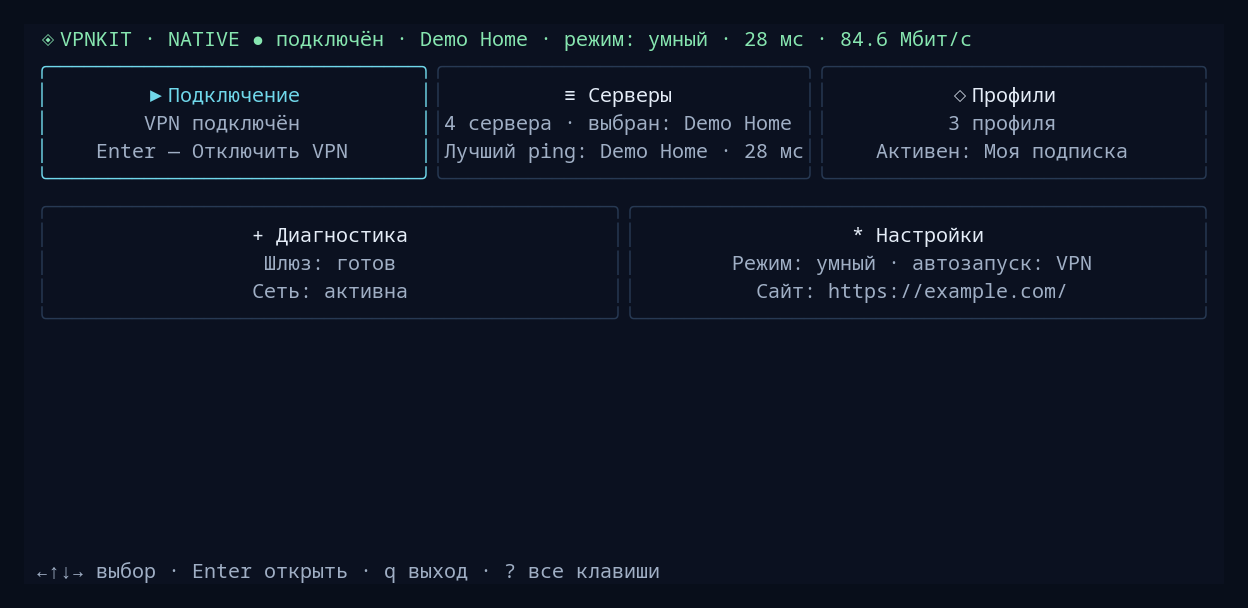
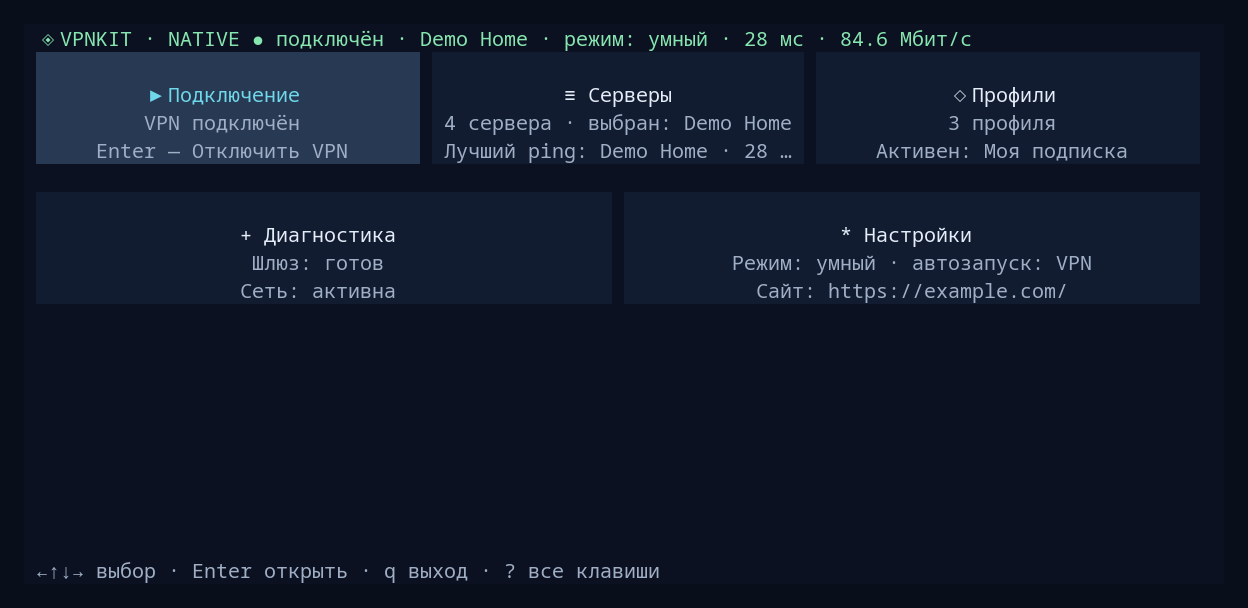
feat(tui): letterless rows, solid home tiles, quieter status line

diff --git a/scripts/vpnkit/tui/shell-presentation.test.ts b/scripts/vpnkit/tui/shell-presentation.test.ts
@@ -66,7 +66,7 @@ test("shell: a narrow tall terminal stacks home tiles in one column", async () =
     app.open("home", false); app.homeIndex = 0; app.notice = ""; app.paint(); await t.renderOnce();
     const lines = t.captureCharFrame().split("\n");
     for (const title of ["Подключение", "Серверы", "Профили", "Диагностика", "Настройки"])
-      expect(lines.filter(line => line.includes(title) && line.includes("│"))).toHaveLength(1);
+      expect(lines.filter(line => line.includes(title))).toHaveLength(1);
     expect(lines.findIndex(line => line.includes("Серверы"))).toBeGreaterThan(lines.findIndex(line => line.includes("Подключение")));
     app.onKey({ name: "down", preventDefault() {} }); expect(app.homeIndex).toBe(1);
     app.onKey({ name: "right", preventDefault() {} }); expect(app.homeIndex).toBe(1);
@@ -229,7 +229,7 @@ test("shell: dialogs keep the workspace, capture shortcuts and stack help", asyn
     let frame = t.captureCharFrame();
     expect(frame).toContain("Node 00");
     expect(frame).toContain("остановить Docker и отключить VPN?");
-    expect(frame).toMatch(/› Нет +n│/); expect(frame).toMatch(/ Да +y│/);
+    expect(frame).toMatch(/› Нет +│/); expect(frame).toMatch(/ Да +│/);
     const before = backend.calls.length;
     app.onKey({ name: "d", preventDefault() {} });
     expect(app.screen).toBe("confirm"); expect(backend.calls.length).toBe(before);
@@ -238,7 +238,7 @@ test("shell: dialogs keep the workspace, capture shortcuts and stack help", asyn
     expect(t.captureCharFrame()).not.toContain("confirm");
     app.onKey({ name: "escape", preventDefault() {} }); await t.renderOnce();
     expect(app.helpOpen).toBe(false); expect(app.screen).toBe("confirm");
-    frame = t.captureCharFrame(); expect(frame).toMatch(/› Нет +n│/);
+    frame = t.captureCharFrame(); expect(frame).toMatch(/› Нет +│/);
     app.onKey({ name: "escape", preventDefault() {} });
     expect(app.screen).toBe("servers"); expect(backend.calls.length).toBe(before);
   } finally { await app.close(); }
@@ -256,7 +256,7 @@ test("shell: editor and native confirmation fit the minimum terminal", async () 
     app.confirmation = "subscription"; app.open("confirm"); await t.renderOnce();
     frame = t.captureCharFrame();
     expect(frame).toContain("Polkit"); expect(frame).toContain("автозапуск не изменяется");
-    expect(frame).toMatch(/› Нет +n│/); expect(frame).toMatch(/ Да +y│/);
+    expect(frame).toMatch(/› Нет +│/); expect(frame).toMatch(/ Да +│/);
   } finally { await app.close(); }
 });
 
@@ -316,7 +316,7 @@ test("shell: settings show stored and actual state and profiles use available ro
     expect(frame).not.toContain("[a] Автозапуск");
     t.resize(60, 16); app.open("autostart"); await t.renderOnce();
     frame = t.captureCharFrame();
-    expect(frame).toContain("Автозапуск"); expect(frame).toMatch(/Запускать шлюз .* g│/); expect(frame).toMatch(/Подключать VPN .* a│/);
+    expect(frame).toContain("Автозапуск"); expect(frame).toMatch(/Запускать шлюз .*‹ да ›/); expect(frame).toMatch(/Подключать VPN .*‹ нет ›/);
     app.onKey({ name: "escape", preventDefault() {} }); expect(app.screen).toBe("settings");
     t.resize(80, 24);
     app.profiles = { active: "p0", items: Array.from({ length: 9 }, (_, i) => ({ id: `p${i}`, name: `Profile ${i}`, kind: "server" as const, count: i, stale: i === 2 })) };
@@ -337,14 +337,14 @@ test("shell: long task overlays scroll and outside clicks cannot activate worksp
     expect(app.screen).toBe("tasks"); expect(app.serverID).toBe(before);
     for (let i = 0; i < 11; i++) app.onKey({ name: "down", preventDefault() {} });
     await t.renderOnce();
-    expect(t.captureCharFrame()).toMatch(/› Выполняется .* 12│/);
+    expect(t.captureCharFrame()).toMatch(/› Выполняется /);
     app.tasks.clear(); app.open("profiles"); app.open("profile-remove");
     expect(app.items()[app.selected]?.key).toBe("n");
     await t.renderOnce(); expect(t.captureCharFrame()).toContain("Удалить активный профиль?");
   } finally { app.tasks.clear(); await app.close(); }
 });
 
-for (const width of [80, MIN_COLS]) test(`menu rows keep value, arrow and shortcut on one line at ${width} columns`, async () => {
+for (const width of [80, MIN_COLS]) test(`menu rows keep value and arrow on one line without letters at ${width} columns`, async () => {
   const { terminal, app } = await fixture(width, 24);
   try {
     app.status = { ...app.status!, runtime: "native", installed: true };
@@ -354,9 +354,9 @@ for (const width of [80, MIN_COLS]) test(`menu rows keep value, arrow and shortc
     const lines = terminal.captureCharFrame().split("\n");
     const first = lines.findIndex(line => line.includes("› Автостарт после сна"));
     expect(first).toBeGreaterThan(0);
-    expect(lines[first]).toMatch(/‹ нет › +w *$/);
-    expect(lines[first + 1]).toMatch(/Автозапуск .*→ +a *$/);
-    expect(lines[first + 2]).toMatch(/Режим .*‹ строгий › +m *$/);
+    expect(lines[first]).toMatch(/‹ нет › *$/);
+    expect(lines[first + 1]).toMatch(/Автозапуск .*→ *$/);
+    expect(lines[first + 2]).toMatch(/Режим .*‹ строгий › *$/);
     for (const line of lines.slice(first, first + 3)) expect(Bun.stringWidth(line.trimEnd())).toBeLessThanOrEqual(78);
     for (const line of lines.slice(first, first + 3)) expect(Bun.stringWidth(line)).toBe(width);
     expect(lines.at(-2)?.trimEnd()).toEndWith("? все клавиши");
@@ -369,8 +369,8 @@ for (const width of [80, MIN_COLS]) test(`menu rows keep value, arrow and shortc
       if (key === "right") terminal.mockInput.pressArrow("right"); else terminal.mockInput.pressEnter();
       expect(app.screen).toBe("autostart"); await terminal.renderOnce();
       const dialog = terminal.captureCharFrame().split("\n");
-      const toggle = dialog.findIndex(line => /› Запускать.*‹ нет › +g│/.test(line));
-      expect(toggle).toBeGreaterThan(0); expect(dialog[toggle + 1]).toMatch(/Подключать VPN.*‹ нет › +a│/);
+      const toggle = dialog.findIndex(line => /› Запускать.*‹ нет › +│/.test(line));
+      expect(toggle).toBeGreaterThan(0); expect(dialog[toggle + 1]).toMatch(/Подключать VPN.*‹ нет › +│/);
     }
   } finally { await app.close(); }
 });

diff --git a/scripts/vpnkit/tui/home-view.ts b/scripts/vpnkit/tui/home-view.ts
@@ -19,7 +19,8 @@ export class HomeView {
     this.more = new TextRenderable(renderer, { content: "", height: 1, flexShrink: 0, fg: p.muted, visible: false });
     this.root.add(this.more);
     for (let i = 0; i < TILES; i++) {
-      const box = new BoxRenderable(renderer, { flexDirection: "column", flexGrow: 1, flexBasis: 0, minWidth: 0, border: true, borderStyle: "rounded", onMouseDown: e => { if (e.button === 0) activate(i); } });
+      // Filled blocks instead of box-drawing borders: terminals with extra line spacing draw `│` as a dashed line.
+      const box = new BoxRenderable(renderer, { flexDirection: "column", justifyContent: "center", flexGrow: 1, flexBasis: 0, minWidth: 0, paddingX: 1, marginRight: 1, backgroundColor: p.panel, onMouseDown: e => { if (e.button === 0) activate(i); } });
       const title = new TextRenderable(renderer, { height: 1, fg: p.text, attributes: TextAttributes.BOLD }); box.add(title);
       const lines = [0, 1, 2, 3].map(() => { const line = new TextRenderable(renderer, { height: 1, fg: p.muted }); box.add(line); return line; });
       this.tiles.push({ box, title, lines });
@@ -62,7 +63,7 @@ export class HomeView {
       ["Настройки", `Режим: ${mode} · автозапуск: ${state.autostart ? (state.autostart.connect ? "VPN" : state.autostart.gateway ? "шлюз" : "нет") : "—"}`, `Сайт: ${state.target ? displayCheckAddress(state.target) : "не задан"}`],
     ];
     // The last row may hold fewer tiles, which then grow wider.
-    const tileWidth = (i: number) => Math.floor((this.renderer.width - 2) / Math.min(cols, TILES - Math.floor(i / cols) * cols)) - 2;
+    const tileWidth = (i: number) => Math.floor((this.renderer.width - 2) / Math.min(cols, TILES - Math.floor(i / cols) * cols)) - 3;
     const width = tileWidth(LAST);
     // Preserve the redacted address and complete status when extra rows are available.
     const wrap = (text: string): string[] => {
@@ -91,7 +92,8 @@ export class HomeView {
       this.tiles.forEach((tile, i) => this.rows[Math.floor(i / cols)]!.add(tile.box));
     }
     this.tiles.forEach((tile, i) => {
-      tile.box.height = compact ? tileHeight : 5 + (Math.floor(i / cols) === Math.floor(LAST / cols) ? extra : 0); tile.box.borderColor = i === state.homeIndex ? p.accent : p.edge;
+      // One blank row under each block separates the rows of the grid.
+      tile.box.height = (compact ? tileHeight : 5 + (Math.floor(i / cols) === Math.floor(LAST / cols) ? extra : 0)) - 1; tile.box.backgroundColor = i === state.homeIndex ? p.edge : p.panel;
       // Centred tiles: the highlighted border and title colour mark the selection, so no cursor glyph.
       // Letter shortcuts are not drawn; they live in the «Клавиши» window.
       const own = tileWidth(i);

diff --git a/scripts/vpnkit/tui/tile-home-presentation.test.ts b/scripts/vpnkit/tui/tile-home-presentation.test.ts
@@ -18,7 +18,7 @@ for (const [width, height] of [[100,35],[60,16]] as const) test(`home tiles fit 
     // Tiles are chosen with arrows; no letter shortcut is drawn on them.
     for (const title of ["Подключение", "Серверы", "Профили", "Диагностика", "Настройки"]) {
       const line = frame.split("\n").find(line => line.includes(title))!;
-      expect(line.slice(line.indexOf(title)).split("│")[0]).toMatch(new RegExp(`${title} *$`));
+      expect(line).not.toMatch(new RegExp(`${title} +[a-zA-Z]( |$)`));
     }
     expect(frame).toContain("←↑↓→ выбор"); expect(frame).toContain("Enter открыть"); expect(frame).toContain("? все клавиши"); expect(frame).toContain("q выход");
     expect(frame).not.toContain("private-token"); expect(frame).not.toContain("secret=hidden"); expect(frame).not.toContain("fragment");
@@ -40,7 +40,7 @@ test("connected tile: its letter shortcut still does what Enter does", async () 
   try {
     await app.perform("status"); await t.renderOnce();
     const line = t.captureCharFrame().split("\n").find(line => line.includes("Подключение"))!;
-    expect(line.split("│")[1]).toMatch(/Подключение *$/);
+    expect(line).not.toMatch(/Подключение +[a-zA-Z]( |$)/);
     t.mockInput.pressKey("x"); await Bun.sleep(40);
     const byKey = [app.screen, app.confirmation];
     t.mockInput.pressEscape(); await Bun.sleep(40); expect(app.screen).toBe("home");
@@ -57,7 +57,7 @@ test("profiles tile shows no letter", async () => {
   try {
     await app.perform("status"); await t.renderOnce();
     const line = t.captureCharFrame().split("\n").find(line => line.includes("Профили"))!;
-    expect(line.slice(line.indexOf("Профили")).split("│")[0]).toMatch(/Профили *$/);
+    expect(line).not.toMatch(/Профили +[a-zA-Z]( |$)/);
   } finally { await app.close(); }
 });
 

diff --git a/scripts/vpnkit/tui/request-execution.ts b/scripts/vpnkit/tui/request-execution.ts
@@ -219,12 +219,12 @@ export async function perform(
             ? "Сохранено. Настройка применяется при входе в графическую сессию."
             : "Сохранено. Настройка применяется при следующем входе в KDE.",
           "backend/start": state.nativeMode()
-            ? "Native-служба готова. Доступны VPN и автозапуск; серверы пока не подключены."
+            ? "Сервис запущен. Можно проверять серверы и подключать VPN."
             : "Docker готов. Можно проверять серверы.",
           start: "",
-          disconnect: state.nativeMode() ? "VPN отключён. Native-служба работает." : "VPN отключён. Docker работает.",
-          stop: state.nativeMode() ? "Native-служба и VPN остановлены." : "Docker и VPN остановлены.",
-          "servers/list": "Список загружен.",
+          disconnect: state.nativeMode() ? "VPN отключён. Сервис работает." : "VPN отключён. Docker работает.",
+          stop: state.nativeMode() ? "Сервис и VPN остановлены." : "Docker и VPN остановлены.",
+          "servers/list": "",
           "servers/refresh": "Каталог обновлён.",
           "servers/select": "Сервер выбран.",
           "servers/rename": "Имя сервера сохранено.",

diff --git a/scripts/vpnkit/tui/notice-view.ts b/scripts/vpnkit/tui/notice-view.ts
@@ -8,10 +8,12 @@ export class NoticeView {
     this.notification = new TextRenderable(renderer, { content: "", fg: p.muted, height: 1, flexShrink: 0 }); root.add(this.notification);
   }
   update(state: AppState) {
-    const message = state.closing ? "Завершаем текущую операцию перед выходом…" : state.notice.replace(/\s*\n\s*/g, " ");
+    // With no notice, a screen may show a quiet hint in the same place instead of above its list.
+    const hint = state.screen === "profiles" ? "Выбор профиля не меняет активное VPN-подключение." : "";
+    const message = state.closing ? "Завершаем текущую операцию перед выходом…" : state.notice ? state.notice.replace(/\s*\n\s*/g, " ") : hint;
     const lines = wrapText(message, Math.max(1, this.renderer.terminalWidth - 2));
     this.notification.content = (this.renderer.terminalWidth < 60 ? lines : lines.slice(0, 2)).join("\n");
-    this.notification.fg = state.error ? p.red : p.muted;
+    this.notification.fg = state.error && state.notice ? p.red : p.muted;
     const reserved = state.noticeReserved();
     const height = !reserved ? 0 : this.renderer.terminalWidth < 60 ? lines.length : 2;
     this.notification.visible = reserved; this.notification.height = height;

diff --git a/scripts/vpnkit/tui/menu-view.ts b/scripts/vpnkit/tui/menu-view.ts
@@ -41,8 +41,8 @@ export class MenuView {
     });
     const count = Math.min(this.rows.length, Math.max(1, available));
     const offset = Math.max(0, Math.min(lines.length - count, lines.indexOf(selected) - count + 1));
-    const keyWidth = Math.max(1, ...items.map(item => Bun.stringWidth(item.key)));
-    const bodyWidth = width - keyWidth - 4;
+    // Letter shortcuts are not drawn; rows are driven with arrows and listed in «Клавиши».
+    const bodyWidth = width - 2;
     const widestTitle = Math.max(0, ...items.map(item => item.value === undefined ? 0 : Bun.stringWidth(item.title ?? item.label)));
     const titleWidth = Math.min(bodyWidth - 11, Math.floor(bodyWidth * 0.7), widestTitle + 4);
     this.rows.forEach((row, i) => {
@@ -66,7 +66,7 @@ export class MenuView {
         body = `${head} ${leader} ${item.kind === "toggle" ? `‹ ${value.trimEnd()} ›` : `  ${value}  →`}`;
       } else if (item.kind === "open") body = `${cell(title, bodyWidth - 3)}  →`;
       else body = title;
-      label.content = new StyledText([fg(p.text)(`${line === selected ? "›" : " "} ${cell(body, bodyWidth)}`), fg(p.muted)(`  ${item.key.padStart(keyWidth)}`)]);
+      label.content = new StyledText([fg(p.text)(`${line === selected ? "›" : " "} ${cell(body, bodyWidth)}`)]);
     });
   }
 }

diff --git a/scripts/vpnkit/tui/summary-view.ts b/scripts/vpnkit/tui/summary-view.ts
@@ -101,7 +101,6 @@ export class SummaryView {
             ? "Подписка · загрузка сохранённого адреса…"
             : "Подписка";
     }
-    if(state.screen==="profiles") { const lines = wrapDialogLine("Выбор профиля не меняет активное VPN-подключение.", Math.max(10, this.renderer.terminalWidth - 2)); height = lines.length; this.summary.content = lines.join("\n"); }
     if (state.screen === "server-rename") { this.summary.content = "Переименовать сервер"; }
     if(state.screen==="profile-name") this.summary.content="Новый профиль · имя\nНапример: Моя VPS или Основная подписка";
     if(state.screen==="profile-source") this.summary.content=`${state.profileName} · ссылка\nHTTPS-подписка, vless://, hysteria2:// или hy2://`;

diff --git a/scripts/vpnkit/tui/app-presentation.test.ts b/scripts/vpnkit/tui/app-presentation.test.ts
@@ -173,10 +173,10 @@ test("presentation: installed native separates service startup, connection, disc
     t.mockInput.pressKey("x"); await settle();
     t.mockInput.pressKey("n"); await settle();
     t.mockInput.pressKey("x"); t.mockInput.pressKey("y"); await settle(); await t.renderOnce();
-    expect(t.captureCharFrame()).toContain("Native-служба работает");
+    expect(t.captureCharFrame()).toContain("Сервис работает");
     t.mockInput.pressKey("z"); await settle();
     t.mockInput.pressKey("y"); await settle(); await t.renderOnce();
-    expect(t.captureCharFrame()).toContain("Native-служба и VPN остановлены");
+    expect(t.captureCharFrame()).toContain("Сервис и VPN остановлены");
   } finally { await app.close(); }
 });
 

diff --git a/docs/releases/0.5.5.md b/docs/releases/0.5.5.md
@@ -3,11 +3,12 @@
 Menu screens put a letter in front of every row, so they read as "press a letter", and changing a setting took a separate Enter.
 
 - **Settings, Autostart, Diagnostics, Profiles, Recovery, Tasks and confirmation dialogs** now show `Title ..... value`. On/off and choice settings (Автостарт после сна, Режим, autostart options) show `‹ value ›`: `←`/`→` or `Space` change them immediately. Rows that open another screen end with `→`; `Enter` or `→` opens them.
-- Letter shortcuts still work; they moved to a dim column on the right. The home tiles no longer show letters (choose a tile with the arrows; `?` lists every key), and the Servers screen without a table («Запустить сервис») uses the same row style.
+- Letter shortcuts still work but are no longer drawn on rows or tiles; `?` lists them. The home tiles no longer show letters (choose a tile with the arrows; `?` lists every key), and the Servers screen without a table («Запустить сервис») uses the same row style.
 - Dangerous actions (Остановить сервис, Перезапустить шлюз, profile removal) sit last, below a divider, and keep their confirmations.
 - The bottom line follows the selected row: `←→ изменить`, `Enter открыть` or `Enter выполнить`.
 - Lists stay compact on wide terminals.
-- **Home screen:** the «Замеры» tile is gone (running checks still open the task list, `j` still opens it). The five tiles have centred titles and text, and the selected tile is marked by its border.
+- **Home screen:** the «Замеры» tile is gone (running checks still open the task list, `j` still opens it). The five tiles are solid filled blocks with centred text (no box-drawing borders, which some terminals draw dashed); the selected tile is brighter.
+- Quieter status line: no «Список загружен.» after background list reads; clearer service start/stop messages; the Profiles hint moved to the status line.
 - README screenshots updated.
 
 **Upgrade:** `kvpn update`, then reopen `kvpn`. Only the interface changed; the gateway does not need a restart.
